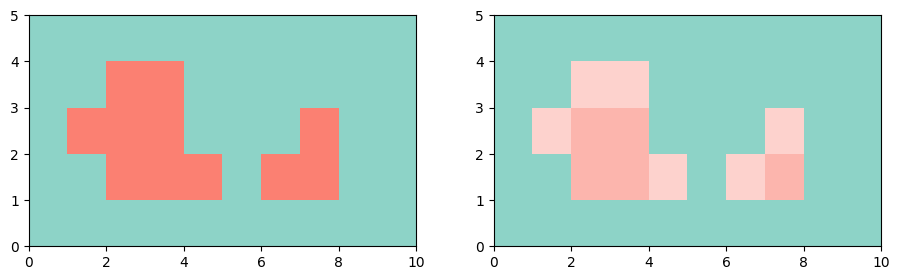
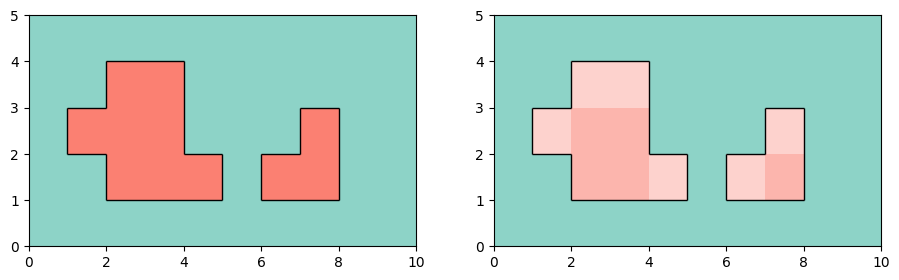
add polygon boundary calculation

diff --git a/docu/visualizations.py b/docu/visualizations.py
@@ -181,8 +181,9 @@ def get_maximal_rectangles_from_numpy(occupation_mat: np.ndarray, mode: str):
 def plot_rectangles(ax: Axes,
                     rectangles: List[Tuple[int, int, int, int]],
                     color_ind: int,
-                    label: str,
+                    label: Optional[str],
                     linewidth: float,
+                    linestyle: object,
                     alpha: float):
     cmap = get_cmap('Set3')
     flag = True
@@ -196,7 +197,9 @@ def plot_rectangles(ax: Axes,
                                   facecolor=cmap(color_ind),
                                   edgecolor="black",
                                   linewidth=linewidth,
+                                  linestyle=linestyle,
                                   alpha=alpha,
+
                                   **kwargs))
 
 
@@ -235,18 +238,33 @@ def plot_rpolygon_max_rectangles(ax: Axes, poly: RPolygon,
     ax.set_ylim(*box[1])
 
     enclosing_rec = rclosed(box[0][0], box[0][1], box[1][0], box[1][1])
+    # Areas
     used_coords = [bounding_coords(rec & enclosing_rec)
                    for rec in poly.maximal_rectangles()]
-    plot_rectangles(ax, [e for e in used_coords if e is not None], 3, "polygon", linewidth=0, alpha=alpha_used)
+    plot_rectangles(ax, [e for e in used_coords if e is not None],
+                    color_ind=3, label="polygon",
+                    linewidth=0, linestyle=None,
+                    alpha=alpha_used)
     free_coords = [bounding_coords(rec & enclosing_rec)
                    for rec in (~poly).maximal_rectangles()]
-    plot_rectangles(ax, [e for e in free_coords if e is not None], 0, "complement", linewidth=0, alpha=alpha_free)
+    plot_rectangles(ax, [e for e in free_coords if e is not None],
+                    color_ind=0, label="complement",
+                    linewidth=0, linestyle=None,
+                    alpha=alpha_free)
+    # Boundary
+    boundary_coords = [bounding_coords(rec & enclosing_rec)
+                       for rec in poly.boundary().rectangle_partitioning()]
+    plot_rectangles(ax, [e for e in boundary_coords if e is not None],
+                    color_ind=0, label=None,
+                    linewidth=1, linestyle="-",
+                    alpha=1.0)
 
 
 def plot_rpolygon_partitioning(ax: Axes, poly: RPolygon,
                                box: Optional[Tuple[Tuple[int, int], Tuple[int, int]]],
-                               linewidth_used=1, linewidth_free=0):
-
+                               used_linewidth: float = 0.5,
+                               free_linewidth: float = 0.0,
+                               border_linewidth: float = 1.0):
     if box is None:
         box = get_box(poly)
 
@@ -254,12 +272,26 @@ def plot_rpolygon_partitioning(ax: Axes, poly: RPolygon,
     ax.set_ylim(*box[1])
 
     enclosing_rec = rclosed(box[0][0], box[0][1], box[1][0], box[1][1])
+    # Areas
     free_coords = [bounding_coords(rec & enclosing_rec)
                    for rec in (~poly).rectangle_partitioning()]
-    plot_rectangles(ax, [e for e in free_coords if e is not None], 0, "complement", linewidth=linewidth_free, alpha=1.0)
+    plot_rectangles(ax, [e for e in free_coords if e is not None],
+                    color_ind=0, label="complement",
+                    linewidth=free_linewidth, linestyle="--",
+                    alpha=1.0)
     used_coords = [bounding_coords(rec & enclosing_rec)
                    for rec in poly.rectangle_partitioning()]
-    plot_rectangles(ax, [e for e in used_coords if e is not None], 3, "polygon", linewidth=linewidth_used, alpha=1.0)
+    plot_rectangles(ax, [e for e in used_coords if e is not None],
+                    color_ind=3, label="polygon",
+                    linewidth=used_linewidth, linestyle="--",
+                    alpha=1.0)
+    # Boundary
+    boundary_coords = [bounding_coords(rec & enclosing_rec)
+                       for rec in poly.boundary().rectangle_partitioning()]
+    plot_rectangles(ax, [e for e in boundary_coords if e is not None],
+                    color_ind=0, label=None,
+                    linewidth=border_linewidth, linestyle="-",
+                    alpha=1.0)
 
 
 def create_gif():
@@ -274,7 +306,7 @@ def create_gif():
     x_lim = (0, 10)
     y_lim = (0, 5)
 
-    for name, alpha in [("solid", 1.0), ("partitioning", 0.35)]:
+    for name, alpha in [("solid", 1.0), ("max-rectangles", 0.35)]:
 
         filename_base = f"simple-example_{name}"
         output_folder = "simple-example-images"
@@ -282,12 +314,12 @@ def create_gif():
 
         poly = RPolygon()
         for i, (operation, r) in enumerate(r_list):
-            fig, ax = plt.subplots(1, 1, figsize=(5, 2.5))
+            fig, ax = plt.subplots(1, 1, figsize=(10, 5))
             if operation == "add":
                 poly |= r
             elif operation == "sub":
                 poly -= r
-            plot_rpolygon_partitioning(ax, poly, (x_lim, y_lim), alpha)
+            plot_rpolygon_max_rectangles(ax, poly, (x_lim, y_lim), alpha_used=alpha)
             ax.set_xlim(x_lim)
             ax.set_ylim(y_lim)
             ax.spines['left'].set_visible(False)
@@ -472,8 +504,10 @@ def evaluate_random_polygon(save_image=True, show_progress=True):
 
         for i, (name, max_rectangles) in enumerate(max_rectangles_dict.items()):
             algo_axes[i].set_title(f"{name}")
-            plot_rectangles(algo_axes[i], max_rectangles[0], 3, "polygon", linewidth=0, alpha=0.35)
-            plot_rectangles(algo_axes[i], max_rectangles[1], 0, "complement", linewidth=0, alpha=0.35)
+            plot_rectangles(algo_axes[i], max_rectangles[0], 3, "polygon",
+                            linewidth=0, linestyle=None, alpha=0.35)
+            plot_rectangles(algo_axes[i], max_rectangles[1], 0, "complement",
+                            linewidth=0, linestyle=None, alpha=0.35)
             algo_axes[i].set_title(f"{name}")
             algo_axes[i].set_xlim(x_lim)
             algo_axes[i].set_ylim(y_lim)

diff --git a/tests/test_rportion.py b/tests/test_rportion.py
@@ -9,7 +9,7 @@ from portion.interval import open, closedopen, empty, Interval, singleton, openc
 from typing import List, Set, Tuple
 from rportion import RPolygon
 from rportion.rportion import ropen, rclosedopen, rclosed, rempty, RBoundary, rsingleton, ropenclosed, \
-    _traverse_diagonally
+    _traverse_diagonally, rproduct
 
 from tests.helpers import get_maximal_rectangles_from_numpy
 
@@ -100,7 +100,6 @@ class TestRBoundary(unittest.TestCase):
         self.assertEqual(RBoundary(1, P.CLOSED), RBoundary(1, P.CLOSED))
 
     def test_le(self):
-
         self.assertTrue(RBoundary(0, P.OPEN) <= RBoundary(0, P.OPEN))
         self.assertTrue(RBoundary(0, P.OPEN) <= RBoundary(0, P.CLOSED))
         self.assertFalse(RBoundary(0, P.CLOSED) <= RBoundary(0, P.OPEN))
@@ -122,7 +121,6 @@ class TestRBoundary(unittest.TestCase):
         self.assertTrue(RBoundary(1, P.CLOSED) <= RBoundary(1, P.CLOSED))
 
     def test_lt(self):
-
         self.assertFalse(RBoundary(0, P.OPEN) < RBoundary(0, P.OPEN))
         self.assertTrue(RBoundary(0, P.OPEN) < RBoundary(0, P.CLOSED))
         self.assertFalse(RBoundary(0, P.CLOSED) < RBoundary(0, P.OPEN))
@@ -165,7 +163,6 @@ class TestRBoundary(unittest.TestCase):
         self.assertTrue(RBoundary(1, P.CLOSED) >= RBoundary(1, P.CLOSED))
 
     def test_gt(self):
-
         self.assertFalse(RBoundary(0, P.OPEN) > RBoundary(0, P.OPEN))
         self.assertFalse(RBoundary(0, P.OPEN) > RBoundary(0, P.CLOSED))
         self.assertTrue(RBoundary(0, P.CLOSED) > RBoundary(0, P.OPEN))
@@ -949,6 +946,55 @@ class TestRPolygonOperations(unittest.TestCase):
             print("Tested maximal rectangle calculation for the following polygon.")
             print(matrix_to_str(arr))
 
+    def test_boundary(self):
+        # Single rectangle
+        #     +--+
+        #     |  |
+        #     +--+
+        x0, x1 = 0, 2
+        y0, y1 = 1, 3
+        for constructor in [rclosed, ropen, rclosedopen, ropenclosed]:
+            poly = constructor(x0, x1, y0, y1)
+            self.assertEqual(poly.boundary(),
+                             rproduct(closed(x0, x1), singleton(y0) | singleton(y1))
+                             | rproduct(singleton(x0) | singleton(x1), closed(y0, y1)))
+
+        # Two overlapping rectangles
+        #        +--+
+        #        |+-|+
+        #        +|-+|
+        #         +--+
+        x0, x1, x2, x3 = 0, 1, 2, 3
+        y0, y1, y2, y3 = 4, 5, 6, 7
+        for constructor in [rclosed, ropen, rclosedopen, ropenclosed]:
+            poly = constructor(x0, x2, y0, y2) | constructor(x1, x3, y1, y3)
+            self.assertEqual(poly.boundary(),
+                             rproduct(singleton(x0), closed(y0, y2))
+                             | rproduct(closed(x0, x1), singleton(y2))
+                             | rproduct(singleton(x1), closed(y2, y3))
+                             | rproduct(closed(x1, x3), singleton(y3))
+                             | rproduct(singleton(x3), closed(y1, y3))
+                             | rproduct(closed(x2, x3), singleton(y1))
+                             | rproduct(singleton(x2), closed(y0, y1))
+                             | rproduct(closed(x0, x2), singleton(y0)))
+
+        # Rectangle with a hole
+        #       +------+
+        #       | +--+ |
+        #       | |  | |
+        #       | +--+ |
+        #       +------+
+        x0, x1, x2, x3 = 0, 1, 2, 3
+        y0, y1, y2, y3 = 4, 5, 6, 7
+        for constructor in [rclosed, ropen, rclosedopen, ropenclosed]:
+            poly = constructor(x0, x3, y0, y3)
+            poly -= constructor(x1, x2, y1, y2)
+            self.assertEqual(poly.boundary(),
+                             rproduct(closed(x0, x3), singleton(y0) | singleton(y3))
+                             | rproduct(singleton(x0) | singleton(x3), closed(y0, y3))
+                             | rproduct(closed(x1, x2), singleton(y1) | singleton(y2))
+                             | rproduct(singleton(x1) | singleton(x2), closed(y1, y2)))
+
 
 class TestIntervalTreeFunctions(unittest.TestCase):
     def __init__(self, *args, **kwargs):
@@ -974,4 +1020,3 @@ class TestIntervalTreeFunctions(unittest.TestCase):
         self.assertEqual(next(iterator), (open(0, 1), open(0, 1)))
         with self.assertRaises(StopIteration):
             next(iterator)
-

diff --git a/rportion/rportion.py b/rportion/rportion.py
@@ -556,6 +556,39 @@ class RPolygon:
             for y_atom in y_interval:
                 yield self.__class__.from_interval_product(x_atom, y_atom)
 
+    def boundary(self) -> 'RPolygon':
+        """
+        Return the boundary of this polygon.
+
+        :return RPolygon: boundary of this polygon represented as another polygon
+        """
+        def adj_y_interval(curr: Interval, l_parent: Interval, r_parent: Interval) -> Interval:
+            return curr - l_parent - r_parent
+
+        iterator = _traverse_diagonally(list(self._x_boundaries), self._used_y_ranges,
+                                        lambda curr, l_parent, r_parent: curr | l_parent | r_parent,
+                                        adj_y_interval)
+        x_boundary_poly = rempty()
+        for x_atom, y_interval in iterator:
+            x_int = singleton(x_atom.lower) | singleton(x_atom.upper)
+            x_boundary_poly |= self.__class__.from_interval_product(x_int, y_interval)
+
+        # Traverse the leafs of the interval tree
+        y_boundary_poly = rempty()
+        n = len(self._used_y_ranges)
+        for i in range(n):
+            row = i
+            col = n - i - 1
+            l_bound = ~self._x_boundaries[i]
+            r_bound = self._x_boundaries[i+1]
+            x_int = closed(l_bound.val, r_bound.val)
+            leaf_y_int = self._used_y_ranges[row][col]
+            for y_atom in leaf_y_int:
+                y_int = singleton(y_atom.lower) | singleton(y_atom.upper)
+                y_boundary_poly |= self.__class__.from_interval_product(x_int, y_int)
+
+        return x_boundary_poly | y_boundary_poly
+
     def __copy__(self):
         poly_copy = self.__class__()
         poly_copy._x_boundaries = SortedList(copy(b) for b in self._x_boundaries)
@@ -699,6 +732,17 @@ def rsingleton(x, y) -> RPolygon:
     :return RPolygon:
     """
     return RPolygon.from_interval_product(singleton(x), singleton(y))
+
+
+def rproduct(x_interval: Interval, y_interval: Interval):
+    """
+    Create a polygon as the (cartesian) product of two intervals.
+
+    :param x_interval: x-interval of the cartesian product
+    :param y_interval: y-interval of the cartesian product
+    :return RPolygon:
+    """
+    return RPolygon.from_interval_product(x_interval, y_interval)
 
 
 def ropen(x_lower, x_upper, y_lower, y_upper) -> RPolygon:

diff --git a/rportion/__init__.py b/rportion/__init__.py
@@ -1,6 +1,7 @@
 from .rportion import (
     rempty,
     rsingleton,
+    rproduct,
     ropen,
     rclosed,
     ropenclosed,
@@ -11,6 +12,7 @@ from .rportion import (
 __all__ = [
     "rempty",
     "rsingleton",
+    "rproduct",
     "ropen",
     "rclosed",
     "ropenclosed",

diff --git a/README.md b/README.md
@@ -21,7 +21,7 @@ In the case of integers/floats it can be used to keep track of the area resultin
 from the union/difference of rectangles:
 
 <p align="center">
-  <img src="https://github.com/tilmann-bartsch/rportion/raw/master/docu/simple-example_partitioning.gif">
+  <img src="https://github.com/tilmann-bartsch/rportion/raw/master/docu/simple-example_solid.gif">
 </p>
 
 Internally the library uses an [interval tree](https://en.wikipedia.org/wiki/Interval_tree) to represent a polygon.
@@ -35,6 +35,7 @@ Internally the library uses an [interval tree](https://en.wikipedia.org/wiki/Int
       * [Polygon operations](#polygon-operations)
       * [Rectangle partitioning iterator](#rectangle-partitioning-iterator)
       * [Maximum rectangle iterator](#maximum-rectangle-iterators)
+      * [Boundary](#boundary)
       * [Internal data structure](#internal-data-structure)
   * [Changelog](#changelog)
   * [Contributions](#contributions)
@@ -209,8 +210,19 @@ which can be visualized as follows:
 </p>
 
 **Left:** Simple Rectilinear polygon. The red areas are part of the polygon.<br>
-**Right:** Maximal contained rectangles are drawn above each other transparently. The maximum
-              rectangles lying outside the polygon are represented analogously in green.
+**Right:** Maximal contained rectangles are drawn above each other transparently.
+
+[&uparrow; back to top](#table-of-contents)
+## Boundary
+
+The method `boundary` of a `RPolygon` instance returns another `RPolygon` instance representing the boundary of
+the polygon. I.e.
+
+```python
+>>> poly = rp.closed(0, 1, 2, 3)
+>>> poly.boundary()
+(x=[1,2], y=[3]) | (x=[1,2], y=[4]) | (x=[1], y=[3,4]) | (x=[2], y=[3,4])
+```
 
 [&uparrow; back to top](#table-of-contents)
 ## Internal data structure
